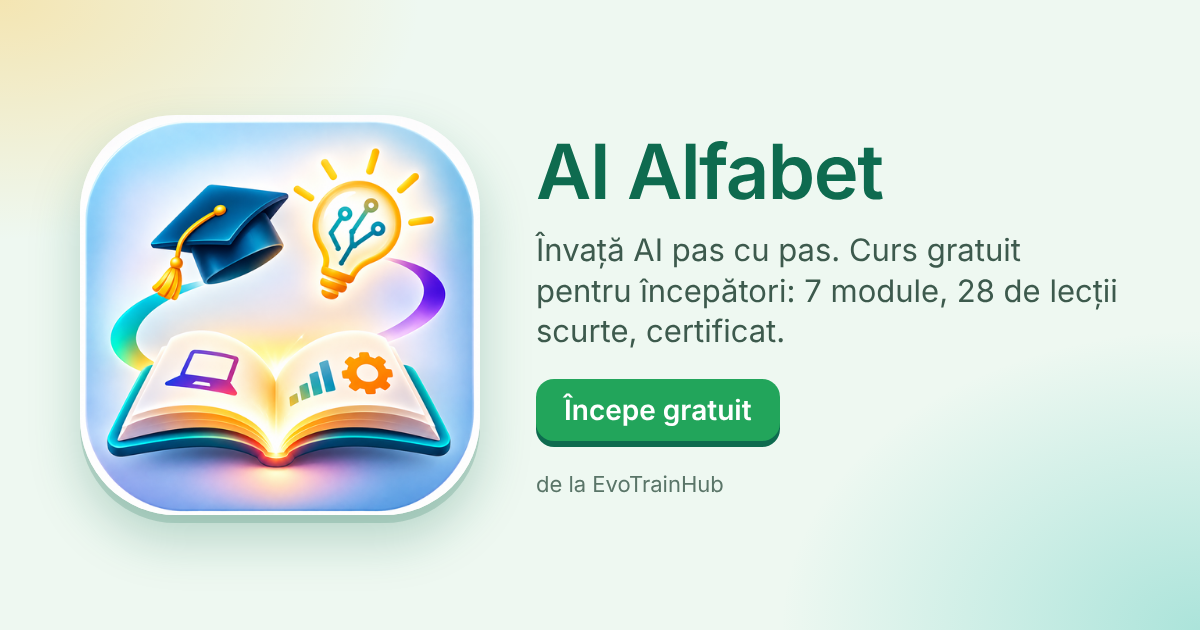
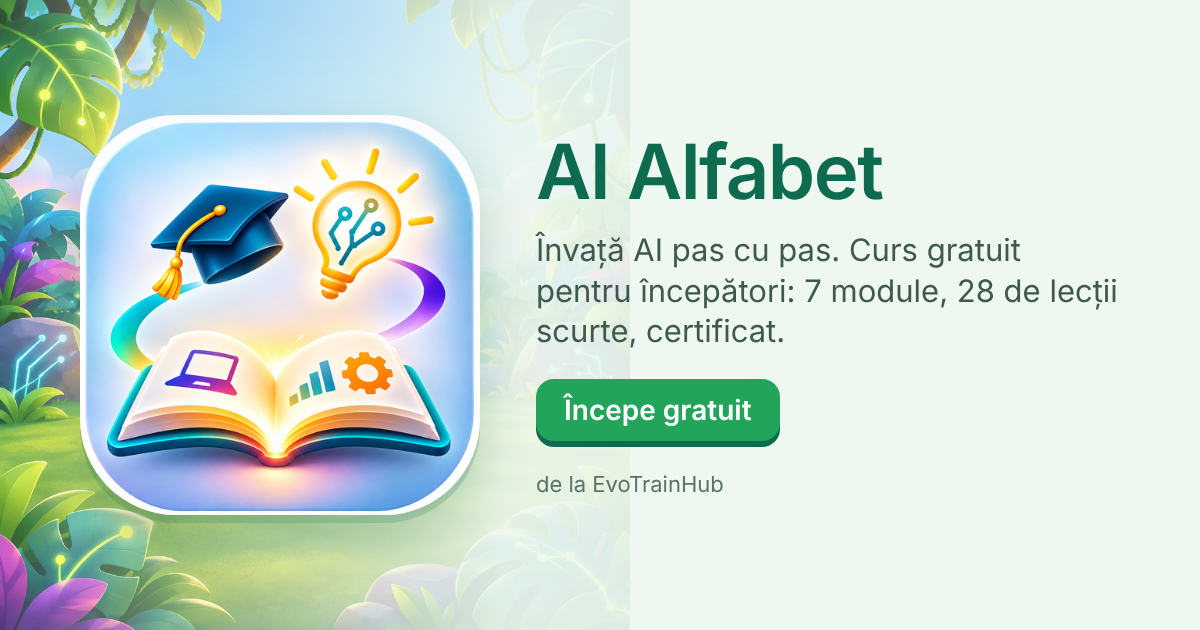
AI Alfabet v3: ilustrații pe prima pagină, pe hartă și în lecții
- scenă ilustrată pe prima pagină, cu ghizii pe pajiște
- câte o ilustrație pentru fiecare dintre cele 7 zone (hartă, carduri, insigne, lecții)
- noduri cu relief, butoane și carduri cu luciu, licurici animați
- imagine nouă de distribuire

Claude-Session: https://claude.ai/code/session_017mJ9RuzVGM1no7mvY1KbnV

Changed region(s): [[0.0, 0.0, 0.4008, 1.0], [0.7708, 0.6937, 1.0, 1.0]]

diff --git a/js/app.js b/js/app.js
@@ -260,13 +260,14 @@ function renderHome() {
       </div>
       <p class="hero-note">Gratuit · fără cont · 5–7 minute pe lecție</p>
     </div>
-    <div class="hero-art" aria-hidden="true">
-      <div class="ring"></div>
-      <img src="assets/app-512.png" alt="">
-      ${M.slice(0, 6).map((m, i) => `<span class="orb" style="background:${m.color};left:calc(${orbPos[i][0]}% - 31px);top:calc(${orbPos[i][1]}% - 31px)">${I[m.icon]}</span>`).join('')}
+    <div class="hero-scene" aria-hidden="true">
+      <img class="hs-bg" src="assets/hero.webp" alt="">
+      <img class="hs-icon" src="assets/app-512.png" alt="">
+      <div class="hs-crew">${window.AVATARS.map((a, i) => `<span class="crew-av idle" style="--d:${i}">${avatarSVG(a)}</span>`).join('')}</div>
+      ${Array.from({ length: 8 }, (_, i) => `<i class="ff" style="--i:${i};left:${6 + (i * 37) % 88}%;top:${40 + (i * 23) % 40}%"></i>`).join('')}
     </div>
   </section>
-  <div class="crew" aria-label="Ghizii care te pot însoți">${window.AVATARS.map((a, i) => `<span class="crew-av idle" style="--d:${i}">${avatarSVG(a)}</span>`).join('')}<p>Alege-ți un ghid care te însoțește prin toate cele 7 zone.</p></div>
+  <p class="crew-note">Șase ghizi te așteaptă. Alege-l pe cel care îți seamănă și pornește prin cele 7 zone.</p>
   <div class="facts">
     <div class="fact"><b>7 module</b><span>de la „ce este AI” până la AI Act</span></div>
     <div class="fact"><b>28 de lecții</b><span>de 5–7 minute, cu simulări și exerciții</span></div>
@@ -274,7 +275,7 @@ function renderHome() {
   </div>
   <h2 class="sec">Ce vei învăța</h2>
   <div class="mods">
-    ${M.map((m, i) => `<div class="mod-card" style="--mc:${m.color}"><i>${I[m.icon]}</i><div><small>${esc(m.zone || '')}</small><b>${i + 1}. ${esc(m.title)}</b><span>${esc(m.subtitle)}</span></div></div>`).join('')}
+    ${M.map((m, i) => `<div class="mod-card" style="--mc:${m.color}"><span class="thumb">${zoneScene(i, m.color)}<i>${I[m.icon]}</i></span><div><small>${esc(m.zone || '')}</small><b>${i + 1}. ${esc(m.title)}</b><span>${esc(m.subtitle)}</span></div></div>`).join('')}
   </div>
   ${authorBox('acasa')}
   ${ctaBox('acasa')}
@@ -345,7 +346,7 @@ function renderGuidePicker() {
     <h1>Alege-ți ghidul</h1>
     <p>Te va însoți prin junglă, de la o lecție la alta. Îl poți schimba oricând.</p>
     <div class="av-grid" role="radiogroup" aria-label="Ghizi">
-      ${AV.map(a => `<button class="av-card${pick === a.id ? ' sel' : ''}" role="radio" aria-checked="${pick === a.id}" data-id="${a.id}">
+      ${AV.map(a => `<button class="av-card${pick === a.id ? ' sel' : ''}" role="radio" aria-checked="${pick === a.id}" data-id="${a.id}" style="--ac:${a.shirt}">
         <span class="av-fig idle">${avatarSVG(a)}</span><b>${esc(a.name)}</b><small>${esc(a.tag)}</small></button>`).join('')}
     </div>
     <p class="av-quote" id="avQ" aria-live="polite">${pick ? `<b>${esc(myAvatar().name)}:</b> „${esc(voice().hi)}”` : 'Atinge un ghid ca să afli cum vorbește.'}</p>
@@ -383,58 +384,10 @@ const CTREE = (c) => `<svg viewBox="0 0 120 190" aria-hidden="true" fill="none" 
   <g fill="${c}" fill-opacity=".45"><circle cx="60" cy="140" r="3"/><circle cx="60" cy="122" r="3"/><circle cx="30" cy="98" r="3"/><circle cx="92" cy="84" r="3"/><circle cx="60" cy="62" r="3"/></g>
 </svg>`;
 
-/* Decorul fiecărei zone (desenat în SVG, câte unul pe modul) */
-function zoneScene(mi, c) {
-  const id = 'z' + mi;
-  const sky = [['#FFF3C4', '#CDEFD6'], ['#D6F3F5', '#BFE9E4'], ['#DCEBFA', '#CFE6F7'], ['#FFE6CC', '#FFD9B0'], ['#D9CFE8', '#E9C7D6'], ['#DCD3F5', '#C9C2EE'], ['#FFE9B8', '#CFE8D8']][mi] || ['#EEF8F1', '#D3EADB'];
-  const tree = (x, y, k, f) => `<g transform="translate(${x} ${y}) scale(${k})"><rect x="-2.5" y="-4" width="5" height="16" rx="2" fill="#7A5A3A"/><circle cx="0" cy="-14" r="13" fill="${f}"/><circle cx="-9" cy="-6" r="9" fill="${f}"/><circle cx="9" cy="-6" r="9" fill="${f}"/></g>`;
-  const palm = (x, y, k) => `<g transform="translate(${x} ${y}) scale(${k})" fill="none" stroke-linecap="round"><path d="M0 12 Q3 -6 0 -22" stroke="#8A6A3A" stroke-width="4"/><g stroke="#1E9A56" stroke-width="5"><path d="M0 -22 Q-14 -30 -24 -20"/><path d="M0 -22 Q14 -30 24 -20"/><path d="M0 -22 Q-8 -36 -20 -36"/><path d="M0 -22 Q8 -36 20 -36"/><path d="M0 -22 Q0 -38 2 -42"/></g></g>`;
-  let art = '';
-  if (mi === 0) art = `<circle cx="470" cy="30" r="20" fill="#FFC23D"/><circle cx="470" cy="30" r="30" fill="#FFC23D" opacity=".25"/>
-    <path d="M0 78 Q150 50 300 70 T580 62 V110 H0Z" fill="#9BD98A"/><path d="M0 92 Q200 70 380 86 T580 82 V110 H0Z" fill="#5FC06B"/>
-    ${tree(60, 70, 1.25, '#22A55B')}${tree(110, 78, .9, '#3FB96C')}${palm(520, 78, 1)}${tree(400, 80, .8, '#3FB96C')}
-    <g fill="#fff"><circle cx="200" cy="92" r="3"/><circle cx="250" cy="98" r="3"/><circle cx="320" cy="94" r="3"/></g><g fill="#FFC23D"><circle cx="200" cy="92" r="1.3"/><circle cx="250" cy="98" r="1.3"/><circle cx="320" cy="94" r="1.3"/></g>`;
-  if (mi === 1) art = `<path d="M0 70 Q140 44 290 62 T580 52 V110 H0Z" fill="#8FD6A8"/>
-    <path d="M-10 96 C120 60 220 110 340 82 S520 60 590 84 V110 H-10Z" fill="#12B5A6"/><path d="M-10 102 C120 70 220 116 340 90 S520 70 590 92 V110 H-10Z" fill="#5FD3C9"/>
-    <g fill="none" stroke="#fff" stroke-width="2.5" stroke-linecap="round" opacity=".8"><path d="M70 92 q10 -6 20 0"/><path d="M230 100 q10 -6 20 0"/><path d="M420 86 q10 -6 20 0"/></g>
-    <g font-family="Lexend,Arial,sans-serif" font-weight="600" font-size="15" fill="#fff"><g transform="translate(140 84) rotate(-8)"><rect x="-11" y="-14" width="22" height="20" rx="5" fill="#0E6B4F"/><text x="0" y="1" text-anchor="middle">a</text></g><g transform="translate(300 90) rotate(6)"><rect x="-11" y="-14" width="22" height="20" rx="5" fill="#1F8CC9"/><text x="0" y="1" text-anchor="middle">b</text></g><g transform="translate(480 76) rotate(-4)"><rect x="-11" y="-14" width="22" height="20" rx="5" fill="#FF8A3D"/><text x="0" y="1" text-anchor="middle">c</text></g></g>
-    ${palm(40, 66, .9)}${tree(545, 56, .8, '#22A55B')}`;
-  if (mi === 2) art = `<path d="M0 110 V52 Q60 40 150 50 L190 110Z" fill="#6FBF8B"/><path d="M580 110 V46 Q500 38 430 50 L390 110Z" fill="#6FBF8B"/>
-    <path d="M150 110 Q290 86 430 110Z" fill="#1F8CC9" opacity=".55"/>
-    <path d="M150 58 Q290 96 430 58" fill="none" stroke="#8A6A3A" stroke-width="5"/><path d="M150 40 Q290 78 430 40" fill="none" stroke="#C9A66B" stroke-width="2.5"/>
-    <g stroke="#C9A66B" stroke-width="2.5">${[180, 215, 250, 290, 330, 365, 400].map(x => { const t = (x - 150) / 280, y = 58 + 76 * t * (1 - t); return `<path d="M${x} ${(y - 18).toFixed(1)} V${y.toFixed(1)}"/>`; }).join('')}</g>
-    <rect x="143" y="30" width="8" height="34" rx="3" fill="#7A5A3A"/><rect x="429" y="30" width="8" height="34" rx="3" fill="#7A5A3A"/>
-    ${tree(60, 46, 1, '#22A55B')}${palm(520, 46, .9)}`;
-  if (mi === 3) { const hut = (x, y, k, r) => `<g transform="translate(${x} ${y}) scale(${k})"><rect x="-20" y="-4" width="40" height="26" rx="3" fill="#F6E3C5"/><path d="M-28 -2 L0 -30 L28 -2Z" fill="${r}"/><rect x="-6" y="6" width="12" height="16" rx="2" fill="#8A5A3A"/><rect x="9" y="2" width="8" height="8" rx="1.5" fill="#FFD27A"/></g>`;
-    art = `<path d="M0 82 Q160 58 320 74 T580 68 V110 H0Z" fill="#B9DE9A"/><path d="M0 98 Q200 82 400 94 T580 90 V110 H0Z" fill="#8CCB7A"/>
-    ${hut(150, 70, 1, '#FF8A3D')}${hut(250, 78, .8, '#E0457B')}${hut(390, 72, 1.05, '#1F8CC9')}${hut(480, 80, .75, '#FF8A3D')}
-    <path d="M320 84 V44" stroke="#7A5A3A" stroke-width="3"/><path d="M320 44 h22 l-6 7 6 7 h-22z" fill="#FFC23D"/>
-    ${palm(50, 84, 1)}${tree(545, 80, .9, '#22A55B')}`; }
-  if (mi === 4) art = `<circle cx="110" cy="30" r="15" fill="#FFF6D8"/><circle cx="116" cy="26" r="13" fill="${sky[0]}"/>
-    <path d="M0 84 Q180 70 340 82 T580 76 V110 H0Z" fill="#6F9A8A"/><path d="M0 96 Q200 86 380 96 T580 92 V110 H0Z" fill="#4E8272"/>
-    <g fill="none" stroke="#4A3B45" stroke-width="3.5" stroke-linecap="round"><path d="M220 92 V52 M220 66 L204 52 M220 60 L236 44 M236 44 L246 46"/><path d="M450 90 V58 M450 70 L466 56 M450 64 L438 52"/></g>
-    <g fill="#fff" opacity=".55"><rect x="20" y="70" width="170" height="9" rx="4.5"/><rect x="280" y="62" width="210" height="9" rx="4.5"/><rect x="380" y="78" width="180" height="8" rx="4"/></g>
-    <g fill="#FFE27A"><circle cx="160" cy="56" r="4"/><circle cx="330" cy="46" r="3.5"/><circle cx="520" cy="54" r="4"/></g><g fill="#FFE27A" opacity=".3"><circle cx="160" cy="56" r="9"/><circle cx="330" cy="46" r="8"/><circle cx="520" cy="54" r="9"/></g>
-    <g stroke="#2F6B58" stroke-width="2.5" stroke-linecap="round"><path d="M70 98 V78 M78 98 V82 M86 98 V76 M540 96 V78 M548 96 V84"/></g>`;
-  if (mi === 5) { const cren = (x, y, w) => Array.from({ length: Math.floor(w / 16) }, (_, i) => `<rect x="${x + i * 16}" y="${y - 7}" width="9" height="8" fill="#8E86B8"/>`).join('');
-    art = `<path d="M0 90 Q200 76 380 88 T580 84 V110 H0Z" fill="#9CCB9A"/>
-    <rect x="150" y="50" width="280" height="50" fill="#A9A2CF"/>${cren(152, 50, 280)}
-    <rect x="130" y="28" width="46" height="72" fill="#8E86B8"/>${cren(131, 28, 46)}<rect x="404" y="28" width="46" height="72" fill="#8E86B8"/>${cren(405, 28, 46)}
-    <path d="M266 100 V74 a24 24 0 0 1 48 0 V100Z" fill="#5A4E96"/>
-    <rect x="280" y="78" width="20" height="16" rx="3" fill="#FFC23D"/><path d="M284 78 v-5 a6 6 0 0 1 12 0 v5" fill="none" stroke="#FFC23D" stroke-width="3"/>
-    <rect x="148" y="44" width="10" height="14" rx="5" fill="#5A4E96"/><rect x="422" y="44" width="10" height="14" rx="5" fill="#5A4E96"/>
-    <path d="M153 28 V10" stroke="#5A4E96" stroke-width="2.5"/><path d="M153 10 h16 l-5 5 5 5 h-16z" fill="#E0457B"/>
-    ${tree(60, 84, 1, '#22A55B')}${palm(525, 86, .95)}`; }
-  if (mi === 6) art = `<circle cx="290" cy="40" r="30" fill="#FFC23D" opacity=".45"/>
-    <path d="M0 92 Q200 80 380 90 T580 86 V110 H0Z" fill="#9CCB9A"/>
-    <path d="M190 100 h200 v-6 h-10 v-6 h-10 v-6 H210 v6 h-10 v6 h-10z" fill="#E9DFC6"/>
-    <g fill="#F7F0DD">${[222, 252, 282, 312, 342].map(x => `<rect x="${x}" y="46" width="12" height="36" rx="2"/>`).join('')}</g>
-    <rect x="212" y="40" width="156" height="8" rx="2" fill="#E9DFC6"/><path d="M206 40 L290 12 L374 40Z" fill="#0E6B4F"/>
-    <g transform="translate(290 30)" fill="none" stroke="#FFC23D" stroke-width="2" stroke-linecap="round"><path d="M0 -8 V6 M-10 -5 H10 M-10 -5 l-4 8 h8z M10 -5 l-4 8 h8z"/></g>
-    ${palm(90, 86, 1.05)}${tree(140, 88, .8, '#3FB96C')}${palm(490, 84, 1)}${tree(440, 90, .75, '#22A55B')}`;
-  return `<svg viewBox="0 0 580 110" preserveAspectRatio="xMidYMax slice" xmlns="http://www.w3.org/2000/svg"><defs><linearGradient id="${id}" x1="0" y1="0" x2="0" y2="1"><stop offset="0" stop-color="${sky[0]}"/><stop offset="1" stop-color="${sky[1]}"/></linearGradient></defs><rect width="580" height="110" fill="url(#${id})"/>${art}</svg>`;
-}
+/* Decorul fiecărei zone: ilustrațiile din assets/zone-1.webp ... zone-7.webp */
+function zoneScene(mi) { return `<img src="assets/zone-${mi + 1}.webp" alt="" loading="lazy" decoding="async">`; }
 
+const LEAF = '<svg viewBox="0 0 100 140" aria-hidden="true"><path d="M50 138 C6 112 -6 56 50 4 C106 56 94 112 50 138Z" fill="currentColor"/><g fill="none" stroke="rgba(255,255,255,.35)" stroke-width="3" stroke-linecap="round"><path d="M50 130 V22"/><path d="M50 104 L24 84 M50 104 L76 84 M50 78 L22 56 M50 78 L78 56 M50 52 L32 36 M50 52 L68 36"/></g></svg>';
 function renderMap() {
   if (!S.avatar) return go('#/ghid');
   const doneN = ALL.filter(l => S.done[l.id]).length;
@@ -449,7 +402,8 @@ function renderMap() {
     const mDone = m.lessons.filter(l => S.done[l.id]).length;
     const firstIdx = ALL.findIndex(l => l.mi === mi);
     const unitLocked = !isUnlocked(ALL[firstIdx]);
-    html += `<section class="unit${unitLocked ? ' locked' : ''}" style="--mc:${m.color}" aria-label="Modulul ${mi + 1}: ${esc(m.title)}">
+    html += `<section class="unit biome b${mi}${unitLocked ? ' locked' : ''}" style="--mc:${m.color}" aria-label="Modulul ${mi + 1}: ${esc(m.title)}">
+      <div class="biome-bg" aria-hidden="true"><span class="bb-img" style="background-image:url(assets/zone-${mi + 1}.webp)"></span>${unitLocked ? '' : Array.from({ length: 6 }, (_, k) => `<i class="ff" style="--i:${k};left:${6 + (k * 41) % 88}%;top:${22 + (k * 29) % 70}%"></i>`).join('')}</div>
       <div class="deco deco-l">${CTREE(m.color)}</div><div class="deco deco-r">${CTREE(m.color)}</div>
       <div class="scene" aria-hidden="true">${zoneScene(mi, m.color)}</div>
       <div class="unit-banner"><i>${I[m.icon]}</i><div class="t"><small>Modulul ${mi + 1}: ${esc(m.zone || '')}</small><b>${esc(m.title)}</b></div><span class="p">${mDone}/${m.lessons.length}</span></div>
@@ -706,7 +660,7 @@ function openLesson(id) {
   let pos = 0, mistakes = 0, firstTry = 0, graded = 0;
   let sel = null, checked = false, orderAns = [], matchLeft = null, matchDone = 0, matchErr = false, spotSel = new Set(), flipped = new Set();
 
-  overlay.innerHTML = `<div class="lesson" role="dialog" aria-modal="true" aria-label="${esc(L.title)}" style="--mc:${L.m.color}">
+  overlay.innerHTML = `<div class="lesson" role="dialog" aria-modal="true" aria-label="${esc(L.title)}" style="--mc:${L.m.color};--zi:url(assets/zone-${L.mi + 1}.webp)">
     <div class="l-top"><button class="x" id="lx" aria-label="Închide lecția">${I.x}</button><div class="bar"><div id="lbar" style="width:0"></div></div>${sndBtn()}</div>
     <div class="phases" id="phases">${['Descoperă', 'Exersează', 'Pe scurt'].map((p, i) => (i === 2 && !hasRecap) ? '' : `<span data-p="${i}">${p}</span>`).join('')}</div>
     <div class="l-body" id="lbody"></div>

diff --git a/css/style.css b/css/style.css
@@ -537,3 +537,144 @@ dialog::backdrop{background:rgba(14,51,42,.55)}
 .foot-social .soc span{position:absolute;width:1px;height:1px;overflow:hidden;clip:rect(0 0 0 0)}
 @media (max-width:520px){.author{flex-direction:column;align-items:center;text-align:center}.socs{justify-content:center}.soc{flex:1 1 100%;justify-content:center}}
 @media (prefers-reduced-motion:reduce){.hero-art img,.hero-art .ring,.orb,.unit .scene svg,.badge{animation:none!important}}
+
+
+/* =====================================================================
+   VERSIUNEA 3 – grafică: scenă pe prima pagină, biomuri pe hartă, relief
+   ===================================================================== */
+body{background:
+  radial-gradient(1100px 520px at 0% -10%,rgba(255,194,61,.28),transparent 60%),
+  radial-gradient(900px 620px at 100% 0%,rgba(18,181,166,.22),transparent 60%),
+  radial-gradient(900px 700px at 50% 110%,rgba(139,211,70,.22),transparent 60%),
+  linear-gradient(180deg,#F1FAF3,#E3F4E8);background-attachment:fixed}
+.btn{background:linear-gradient(180deg,#34C06F,#1E9A56);position:relative;overflow:hidden}
+.btn::before{content:"";position:absolute;left:8%;right:8%;top:5px;height:36%;border-radius:99px;background:linear-gradient(180deg,rgba(255,255,255,.34),rgba(255,255,255,0));pointer-events:none}
+.btn.ghost{background:linear-gradient(180deg,#fff,#F3FAF5)}
+.btn.ghost::before,.btn[disabled]::before{display:none}
+.btn.bad{background:linear-gradient(180deg,#EE5A50,#D83A30)}
+.btn[disabled]{background:#C4D6CB}
+.cta-box .btn{background:linear-gradient(180deg,#FFD15C,#FFB52E)}
+.cta-box .btn.ghost{background:transparent}
+.stat{box-shadow:0 3px 0 var(--line)}
+
+/* ---- prima pagină: scena ---- */
+.hero{grid-template-columns:1fr 1fr;padding-top:40px}
+.hero h1{background:linear-gradient(120deg,#0E6B4F 20%,#12A08C 60%,#1F8CC9);-webkit-background-clip:text;background-clip:text;color:transparent;padding-bottom:.08em}
+.hero-scene{position:relative;aspect-ratio:1/1.02;border-radius:36px;overflow:hidden;box-shadow:0 24px 50px -18px rgba(14,107,79,.5),0 8px 0 #BFE3CB;border:4px solid #fff;isolation:isolate}
+.hs-bg{position:absolute;inset:0;width:100%;height:100%}
+.hs-icon{position:absolute;left:28%;top:9%;width:44%;border-radius:24%;box-shadow:0 18px 30px rgba(14,80,107,.3),0 0 0 5px rgba(255,255,255,.7);animation:floaty 5s ease-in-out infinite}
+.hs-crew{position:absolute;left:0;right:0;bottom:5%;display:flex;justify-content:center;align-items:flex-end;gap:1.5%;padding:0 5%}
+.hs-crew .crew-av{width:14%;filter:drop-shadow(0 5px 3px rgba(14,80,50,.3))}
+.hs-crew .crew-av:nth-child(3),.hs-crew .crew-av:nth-child(4){width:16.5%}
+.crew-note{text-align:center;color:var(--muted);font-size:15px;margin:14px 0 30px}
+.ff{position:absolute;width:5px;height:5px;border-radius:50%;background:#FFF6C4;box-shadow:0 0 8px 2px rgba(255,236,130,.85);opacity:0;animation:ff calc(4s + var(--i) * .6s) ease-in-out calc(var(--i) * -.9s) infinite;pointer-events:none}
+@keyframes ff{0%,100%{opacity:0;transform:translate(0,0)}30%{opacity:1}50%{opacity:.9;transform:translate(14px,-22px)}75%{opacity:.4;transform:translate(-8px,-36px)}}
+.fact{border:0;box-shadow:0 5px 0 var(--line);background:linear-gradient(180deg,#fff,#F6FCF8)}
+.fact b{font-size:28px}
+@media (max-width:760px){.hero{grid-template-columns:1fr}.hero-scene{order:2;margin:22px 0 0;aspect-ratio:1/.9;border-radius:28px}}
+
+/* ---- cardurile modulelor: miniatură cu peisajul zonei ---- */
+.mods{grid-template-columns:repeat(auto-fill,minmax(210px,1fr));gap:16px}
+.mod-card{flex-direction:column;align-items:stretch;gap:0;padding:0;overflow:hidden;border:0;border-radius:22px;box-shadow:0 6px 0 color-mix(in srgb,var(--mc) 35%,#DDEFE3),0 14px 24px -14px rgba(14,107,79,.35)}
+.mod-card:hover{transform:translateY(-4px)}
+.mod-card .thumb{display:block;position:relative;height:96px;overflow:hidden}
+.mod-card .thumb>svg{display:block;width:100%;height:100%;transition:transform .5s}
+.mod-card:hover .thumb>svg{transform:scale(1.08)}
+.mod-card .thumb i{position:absolute;left:14px;bottom:-22px;width:46px;height:46px;border-radius:14px;border:3px solid #fff;box-shadow:0 4px 0 color-mix(in srgb,var(--mc) 65%,#000)}
+.mod-card>div{padding:28px 16px 16px}
+.mod-card .thumb{overflow:visible}.mod-card .thumb>svg{border-radius:22px 22px 0 0}
+.mod-card:hover .thumb>svg{transform:none}
+
+/* ---- alegerea ghidului ---- */
+.av-card{position:relative;overflow:hidden;border:0;box-shadow:0 6px 0 var(--line);padding-top:20px}
+.av-card::before{content:"";position:absolute;left:50%;top:14px;width:118px;height:118px;translate:-50% 0;border-radius:50%;background:radial-gradient(circle at 35% 30%,color-mix(in srgb,var(--ac) 30%,#fff),color-mix(in srgb,var(--ac) 55%,#fff));opacity:.55}
+.av-card>*{position:relative}
+.av-fig{width:92px}
+.av-card.sel{background:#fff;box-shadow:0 6px 0 var(--ac),0 0 0 3px var(--ac)}
+.av-card.sel::before{opacity:.9}
+
+/* ---- harta: biomuri ---- */
+.unit{z-index:auto}
+.trail{z-index:1}
+.nodes,.unit-banner,.unit .scene,.trophy{z-index:2}
+.unit .scene{position:relative}
+.biome{border-radius:30px;padding:0 0 34px;margin:40px 0 0;box-shadow:0 10px 0 var(--bd),0 26px 40px -22px rgba(14,60,50,.55)}
+.biome-bg{position:absolute;inset:0;border-radius:30px;overflow:hidden;background:linear-gradient(180deg,var(--b1),var(--b2));z-index:0}
+.biome-bg::after{content:"";position:absolute;left:0;right:0;bottom:0;height:90px;background:radial-gradient(120% 100% at 50% 100%,var(--bd),transparent 70%);opacity:.55}
+.b0{--b1:#D9F6DC;--b2:#9FE0A9;--bd:#6CC47E;--lf:#2FA866}
+.b1{--b1:#D5F4F2;--b2:#8BDAD3;--bd:#55BDB4;--lf:#16998C}
+.b2{--b1:#DCEBFB;--b2:#A3CCF2;--bd:#6FA9DE;--lf:#2E7FC2}
+.b3{--b1:#FFEBD3;--b2:#FFC88E;--bd:#F0A35C;--lf:#E07A2B}
+.b4{--b1:#E6D6EA;--b2:#C29BC4;--bd:#A074A6;--lf:#7C4D85}
+.b5{--b1:#E3DCFA;--b2:#B7A9EE;--bd:#8E7CDB;--lf:#6548C2}
+.b6{--b1:#DDF0DF;--b2:#A2D3B1;--bd:#5E9E7A;--lf:#0E6B4F}
+.leaf{position:absolute;width:120px;color:var(--lf);opacity:.3}
+.leaf svg{display:block;width:100%}
+.leaf.l0{left:-34px;top:210px;rotate:38deg}
+.leaf.l1{right:-38px;top:300px;rotate:-42deg;width:140px}
+.leaf.l2{left:-44px;top:440px;rotate:64deg;width:150px}
+.leaf.l3{right:-30px;top:540px;rotate:-24deg}
+.leaf.l4{left:-26px;bottom:-30px;rotate:22deg;width:130px}
+
+.biome .scene{height:132px;border:0;border-radius:30px 30px 0 0}
+.biome .scene::after{content:"";position:absolute;inset:0;background:linear-gradient(180deg,transparent 45%,color-mix(in srgb,var(--mc) 70%,#000) 130%)}
+.biome .scene+.unit-banner{border-radius:0;margin-top:-1px;box-shadow:0 6px 14px -6px rgba(0,0,0,.35);background:linear-gradient(180deg,color-mix(in srgb,var(--mc) 92%,#fff),color-mix(in srgb,var(--mc) 86%,#000))}
+.unit-banner i{background:rgba(255,255,255,.24);box-shadow:inset 0 2px 0 rgba(255,255,255,.3)}
+.biome.locked .biome-bg{filter:saturate(.25) brightness(1.06)}
+.biome.locked{box-shadow:0 10px 0 #C9D8CE,0 26px 40px -22px rgba(14,60,50,.3)}
+.biome .deco{display:none}
+.node-label{background:#fff;border-radius:99px;padding:3px 12px;box-shadow:0 3px 0 rgba(0,0,0,.1);font-weight:600;font-size:13.5px}
+.node-wrap.locked .node-label{background:rgba(255,255,255,.7);box-shadow:none}
+.trail .t-base{stroke:#fff;opacity:.85;stroke-width:15}
+.trail .t-done{stroke:#FFC23D;stroke-width:15}
+/* nodurile: relief și luciu */
+.node{width:84px;height:84px;background:radial-gradient(circle at 34% 26%,color-mix(in srgb,var(--mc) 55%,#fff) 0 16%,var(--mc) 52%,color-mix(in srgb,var(--mc) 78%,#000));
+  box-shadow:0 8px 0 color-mix(in srgb,var(--mc) 55%,#000),0 16px 18px -6px rgba(0,0,0,.35),inset 0 0 0 4px rgba(255,255,255,.28)}
+.node:active{box-shadow:0 2px 0 color-mix(in srgb,var(--mc) 55%,#000),inset 0 0 0 4px rgba(255,255,255,.28)}
+.node svg{filter:drop-shadow(0 2px 0 rgba(0,0,0,.2))}
+.node.done,.node.gold{background:radial-gradient(circle at 34% 26%,#FFF2B8 0 16%,#FFC93D 52%,#F0A21E);box-shadow:0 8px 0 #B97A12,0 16px 18px -6px rgba(0,0,0,.35),inset 0 0 0 4px rgba(255,255,255,.4)}
+.node.locked{background:radial-gradient(circle at 34% 26%,#F4F8F5 0 16%,#D5E1D9 52%,#BCCDC2);color:#8FA598;box-shadow:0 8px 0 #A3B8AA,0 14px 16px -8px rgba(0,0,0,.25),inset 0 0 0 4px rgba(255,255,255,.5)}
+.node-wrap.current .node{box-shadow:0 8px 0 color-mix(in srgb,var(--mc) 55%,#000),0 0 0 8px rgba(255,255,255,.55),0 0 34px 10px color-mix(in srgb,var(--mc) 55%,transparent),inset 0 0 0 4px rgba(255,255,255,.28)}
+.node-wrap.current .node::after{border-color:#fff;opacity:.8}
+.start-tip{border:0;box-shadow:0 4px 0 rgba(0,0,0,.14);border-radius:14px;z-index:3}
+.start-tip::after{border-top-color:#fff}
+.map-av{width:60px;filter:drop-shadow(0 6px 3px rgba(0,0,0,.28))}
+.map-head h1{background:linear-gradient(120deg,#0E6B4F,#12A08C 70%,#1F8CC9);-webkit-background-clip:text;background-clip:text;color:transparent}
+.trophy .node-label{background:#fff}
+.overall .bar{height:14px;box-shadow:inset 0 2px 0 rgba(0,0,0,.06)}
+
+/* ---- lecția ---- */
+.lesson{background:linear-gradient(180deg,color-mix(in srgb,var(--mc) 16%,#fff) 0,#fff 230px)}
+.l-top .bar{box-shadow:inset 0 2px 0 rgba(0,0,0,.06)}
+.choice,.chip{transition:transform .1s}
+.choice:hover{transform:translateY(-2px)}
+.author{border:0;box-shadow:0 6px 0 var(--line),0 16px 26px -18px rgba(14,107,79,.4)}
+@media (prefers-reduced-motion:reduce){.ff,.hs-icon{animation:none!important}}
+
+
+/* =====================================================================
+   VERSIUNEA 4 – ilustrații (assets/hero.webp, assets/zone-1..7.webp)
+   ===================================================================== */
+.hs-bg{object-fit:cover}
+.hero-scene{aspect-ratio:1/1;border-width:5px}
+.hs-icon{left:31%;top:7%;width:38%}
+.hs-crew{bottom:9%;gap:2%}
+.hs-crew .crew-av,.map-av,.done-av,.r-av{filter:drop-shadow(1.5px 0 0 #fff) drop-shadow(-1.5px 0 0 #fff) drop-shadow(0 1.5px 0 #fff) drop-shadow(0 -1.5px 0 #fff) drop-shadow(0 6px 4px rgba(0,40,20,.35))}
+@media (max-width:760px){.hero-scene{aspect-ratio:1/1}}
+.unit .scene img,.badge .scene img,.mod-card .thumb>img{display:block;width:100%;height:100%;object-fit:cover}
+.biome .scene{height:auto;aspect-ratio:3/1;overflow:hidden}
+.biome .scene::after{background:linear-gradient(180deg,transparent 60%,color-mix(in srgb,var(--mc) 75%,#000) 135%)}
+.unit:not(.locked) .scene img{animation:pan 26s ease-in-out infinite alternate}
+.biome.locked .scene{filter:saturate(.25) brightness(1.05)}
+.bb-img{position:absolute;inset:-60px;background-size:cover;background-position:center;filter:blur(34px) saturate(1.15);opacity:.62}
+.biome-bg::before{content:"";position:absolute;inset:0;background:linear-gradient(180deg,rgba(255,255,255,.38),rgba(255,255,255,.12));z-index:1}
+.biome-bg .ff{z-index:2}
+.biome-bg::after{z-index:1}
+.mod-card .thumb{height:auto;aspect-ratio:2.4/1}
+.mod-card .thumb>img{border-radius:22px 22px 0 0}
+.badge .scene{height:auto;aspect-ratio:3/1}
+.lesson::before{content:"";position:absolute;left:0;right:0;top:0;height:150px;background:var(--zi) center 30%/cover;opacity:.5;-webkit-mask-image:linear-gradient(180deg,#000 20%,transparent);mask-image:linear-gradient(180deg,#000 20%,transparent);pointer-events:none}
+.lesson>*{position:relative}
+.l-top .x,.l-top .snd{background:rgba(255,255,255,.9)}
+.phases span{box-shadow:0 2px 0 rgba(0,0,0,.06)}
+@media (prefers-reduced-motion:reduce){.unit .scene img{animation:none!important}}

diff --git a/sw.js b/sw.js
@@ -1,9 +1,10 @@
 /* Service worker – face aplicația instalabilă și utilizabilă fără internet.
    IMPORTANT: la fiecare actualizare a aplicației, schimbă numărul versiunii de mai jos
    (v2 → v3 ...). Altfel, telefoanele pot arăta încă o vreme varianta veche. */
-const VERSION = 'aialfabet-v3';
+const VERSION = 'aialfabet-v4';
 const FILES = ['./', 'index.html', 'css/style.css', 'js/config.js', 'js/content.js', 'js/blog-posts.js', 'js/avatars.js', 'js/app.js',
-  'assets/logo.png', 'assets/app-192.png', 'assets/app-512.png', 'assets/semnatura.png', 'manifest.webmanifest'];
+  'assets/logo.png', 'assets/app-192.png', 'assets/app-512.png', 'assets/semnatura.png', 'manifest.webmanifest',
+  'assets/hero.webp', 'assets/zone-1.webp', 'assets/zone-2.webp', 'assets/zone-3.webp', 'assets/zone-4.webp', 'assets/zone-5.webp', 'assets/zone-6.webp', 'assets/zone-7.webp'];
 
 self.addEventListener('install', e => { e.waitUntil(caches.open(VERSION).then(c => c.addAll(FILES)).then(() => self.skipWaiting())); });
 self.addEventListener('activate', e => {
